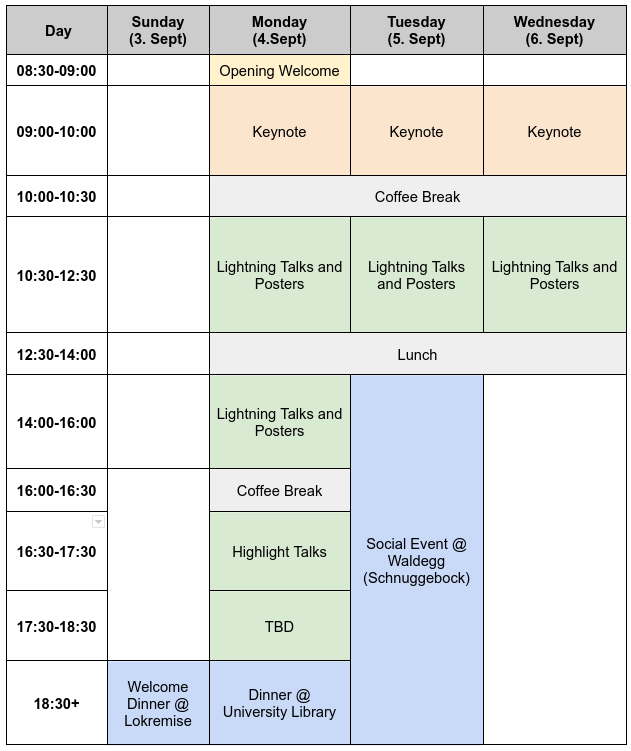
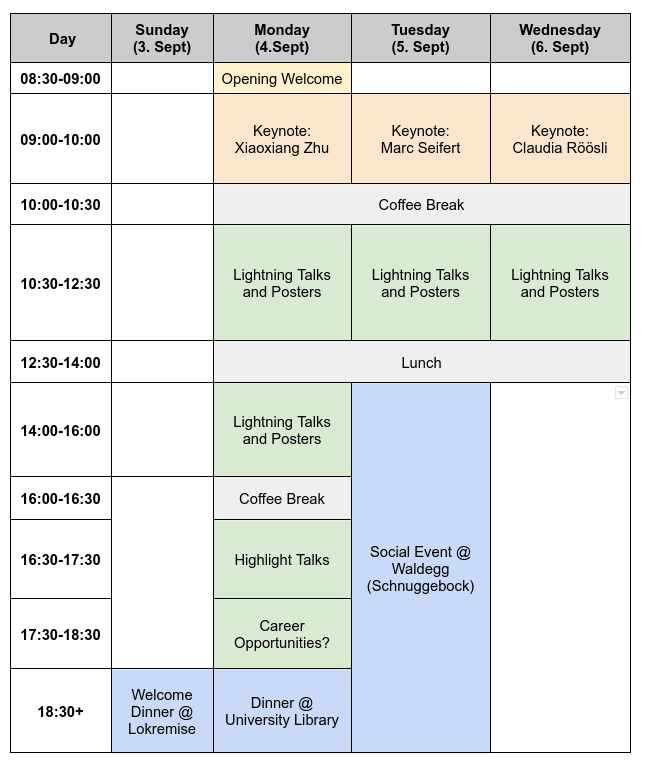
updates + keynote speakers

Changed region(s): [[0.0, 0.0, 0.9937, 1.0], [0.0602, 0.9188, 0.1204, 0.9494]]

diff --git a/index.html b/index.html
@@ -63,8 +63,8 @@
       <div style="background-color:#eee;padding:14px;margin-bottom:28px;border: 1px dashed #333;">
         <b>Abstract submissions</b>: the official abstract submission period has ended, but we are still accepting late submissions (see <a href="#abstract_submission">here</a> for details)
         <br><br>
-        <b>Registration:</b>15
-        Registration is now open (see <a href="#registration">here</a> for details) and <strong>ends on August 15</strong>. Registration is kept to a nominally small, non-refundable fee (50 CHF for students and postdocs, 100 CHF for senior researchers).
+        <b>Registration:</b>
+        The official registration window has closed, but late registrations are still possible (see <a href="#registration">here</a> for details). Registration is kept to a nominally small, non-refundable fee (50 CHF for students and postdocs, 100 CHF for senior researchers).
         <br><br>
         <b>Accommodation and travel:</b> Attendees have to cover their own travel and hotel expenses. A list of hotels and other accommodation is available <a href="#hotels">here</a>. Students and postdocs are eligible to receive a to-be-determined compensation for their accommodation.
         <br><br>
@@ -115,9 +115,16 @@
         The <b>preliminary program</b> looks as follows:
         <img style="width: 70%; margin: auto;" src="assets/program.png">
 
-        <b>Keynote speakers</b> will be announced soon.
+        We are happy to announce the following <b>keynote speakers</b> for our meeting:
         <br><br>
+	<ul>
+	  <li>Monday: <b>Xiaoxiang Zhu</b>, <a href="https://www.asg.ed.tum.de/en/sipeo/team/zhu/">TUM</a>: title to be announced</li>
+	  <li>Tuesday: <b>Marc Seifert</b>, <a href="www.ororatech.com">OroraTech GmbH</a>: <i>Fires, droughts, heatwaves - realtime thermal data for highly dynamic events</i></li>
+	  <li>Wednesday: <b>Claudia Röösli</b>, <a href="https://geo.uzh.ch/en/units/rs/staff/claudiaroeoesli.html">University of Zurich</a>: <i>How can research with satellite and remote sensing data be brought to application?</i></li>
+	</ul>
+	
 
+	
         <b>Research presentations</b> will consist of 5-min lightning-style oral presentations and subsequent poster presentations to enable detailed discussions. Presenters, please bring a printed poster
         (any format will do, feel free to reuse already available posters) and a few slides for your lightning talk (pdf only, please). The order of presentations will be made available before the meeting. 
         <br><br>
@@ -133,7 +140,7 @@
           <li>We will take <b>lunches</b> at the university mensa. Seating will be reserved for us and each participant will receive a voucher, allowing you to pick from a huge variety of meals.</li> 
         </ul>
 
-        <b>Lunches and dinners listed above are all included in the participation fee, there will be no additional cost.</b> We will try our best to accommodate all dietary restrictions (vegan/vegetarian, gluten-free options) in the menus served. 
+        <b>Lunches and dinners listed above are all included in the participation fee, there will be no additional cost.</b> We will try our best to accommodate all dietary restrictions (vegan/vegetarian, gluten-free options) in the menus served. <b>Please provide your meal preference in the circulated spreadsheet document ahead of the meeting</b>!
 
       </div>
 
@@ -146,17 +153,15 @@
         <br><br>
         Therefore, we <b>solicit abstract contributions corresponding to papers presented in 2022/23 at major remote sensing conferences or published in top tier remote sensing journals</b>. Examples are IGARSS2022/23, the ISPRS congress, AGU/EGU, Remote Sensing of Environment, IEEE TGRS, etc.
         <br><br>
-        At submission stage, it will be requested to upload a short abstract (1 paragraph), and to provide full bibliographic information, as well as a link to an open access version of the paper. If the paper is behind a paywall or still under review, please upload a preprint on arxiv.org or to a file transfer platform (e.g., Google drive) and provide the corresponding link at submission.
-	<br><br>Please use this <strong><a href="https://forms.gle/KwDcSei4kfS9caw16">link</a></strong> to submit your abstract. Your information will be treated confidentially.
+	If you are interested in a last-minute abstract submission, please contact the organizers!
+        <!-- At submission stage, it will be requested to upload a short abstract (1 paragraph), and to provide full bibliographic information, as well as a link to an open access version of the paper. If the paper is behind a paywall or still under review, please upload a preprint on arxiv.org or to a file transfer platform (e.g., Google drive) and provide the corresponding link at submission. -->
+	<!-- <br><br>Please use this <strong><a href="https://forms.gle/KwDcSei4kfS9caw16">link</a></strong> to submit your abstract. Your information will be treated confidentially. -->
       </div>
 
       <!-- registration section -->
       <h2 id="registration">Registration</h2>
       <div>
-        You may now register for the meeting on our registration website: <a href="https://srsd2023.wpcomstaging.com/">https://srsd2023.wpcomstaging.com/</a>. Please pick your appropriate rate, fill in the requested information and pay for your registration; note that you can only pay with a VISA/Mastercard and that registration fees are non-refundable. You will receive an invoice for your payment, but this may take a bit (we have to trigger this process manually and summer holiday season is coming up quickly).
-        <strong>Registration is open until August 15!</strong> 
-
-	Registration is not limited to those who submitted abstract, so feel free to sign up today!
+        The official registration window has closed but you may still register for the meeting for a short time on our registration website: <a href="https://srsd2023.wpcomstaging.com/">https://srsd2023.wpcomstaging.com/</a>. Please pick your appropriate rate, fill in the requested information and pay for your registration; note that you can only pay with a VISA/Mastercard and that registration fees are non-refundable. You will receive an invoice for your payment, but this may take a bit (we have to trigger this process manually and summer holiday season is coming up quickly). Registration is not limited to those who submitted abstract, so feel free to sign up today!
       </div>
 
       <!-- Hotels section --> 
